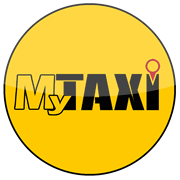
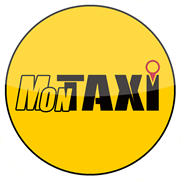
Name Change + Up to v1.2.5 + Ban System

diff --git a/index.html b/index.html
@@ -3,7 +3,7 @@
     <head>
     <meta http-equiv="Content-Type" content="text/html; charset=utf-8" />
     <meta http-equiv="CONTENT-LANGUAGE" content="French">
-    <title>My Taxi by TaxiMedia</title>
+    <title>MonTaxi by TaxiMedia</title>
     <link rel="apple-touch-icon" href="visuels/idev.favicon.png"/>
     <meta name="viewport" content="width=device-width, user-scalable=no, initial-scale=1, minimum-scale=1, maximum-scale=1"/>
     <!-- <meta name="viewport" content="width=device-width, height=device-height, user-scalable=yes, initial-scale=1"/> -->
@@ -105,6 +105,16 @@
 			{
 				$.mobile.pageContainer.pagecontainer("change", "#connect", { transition: "slide"} );
 			}
+			else {
+				$.post("https://www.mytaxiserver.com/taxioffsrv/blacklist.php", { userid: operator}, function(data) {
+					if (data.banned == 1)
+					{
+						$.mobile.pageContainer.pagecontainer("change", "#subscription", { transition: "slide"} );
+						var displayThis = '<p style="color:red;"><b>Votre compte &agrave; &eacute;t&eacute; banni pour cause d&rsquo;utilisation abusive, d&eacute;sol&eacute;.<br>Vous pouvez nous contacter pour toute r&eacute;clamation: </b></p><center><a href="mailto:info@taximedia.fr" class="ui-btn ui-btn-icon-left ui-icon-mail ui-btn-inline">Courriel</a><a href="tel:0413598022" class="ui-btn ui-btn-icon-left ui-icon-phone ui-btn-inline">T&eacute;l&eacute;phone</a></center>';
+						$("#subReturns").empty().append(displayThis);
+					}
+				}, "json");
+			}
 			if((navigator.network.connection.type == Connection.NONE) || !window.jQuery){
 				$("body").empty().append('<img src="no_network.png" width="'+screen.width+'" height="'+screen.height+'" onClick="window.location.reload()" />');
 			}
@@ -116,7 +126,7 @@
 		// GESTION DES BOUTONS MATERIEL
 		// Bouton retour
 		function onBackKeyDown() {
-			navigator.notification.alert('Veuillez ne pas quitter myTaxi pendant la recheche de taxi disponibles');
+			navigator.notification.alert('Veuillez ne pas quitter monTaxi pendant la recheche de taxi disponibles');
 		}
 		function onResume() {
 			if((navigator.network.connection.type == Connection.NONE) || !window.jQuery){
@@ -188,7 +198,7 @@
 			setTimeout(function(){
 				//navigator.notification.alert(result.name + " " + result.phoneNumber);
 				var number = result.phoneNumber;
-				var message = "Téléchargez l'app myTaxi en suivant ce lien : http://www.taximedia.fr/stores.php?app=taxioff";
+				var message = "Téléchargez l'app monTaxi en suivant ce lien : http://www.taximedia.fr/stores.php?app=taxioff";
 				var intent = ""; //leave empty for sending sms using default intent
 				var success = function () {
 					//navigator.notification.alert('Message sent successfully');
@@ -686,6 +696,16 @@
 			if($.localStorage.getItem('registeredUser') != 1)
 			{
 				$.mobile.pageContainer.pagecontainer("change", "#connect", { transition: "slide"} );
+			}
+			else {
+				$.post("https://www.mytaxiserver.com/taxioffsrv/blacklist.php", { userid: operator}, function(data) {
+					if (data.banned == 1)
+					{
+						$.mobile.pageContainer.pagecontainer("change", "#subscription", { transition: "slide"} );
+						var displayThis = '<p style="color:red;"><b>Votre compte &agrave; &eacute;t&eacute; banni pour cause d&rsquo;utilisation abusive, d&eacute;sol&eacute;.<br>Vous pouvez nous contacter pour toute r&eacute;clamation: </b></p><center><a href="mailto:info@taximedia.fr" class="ui-btn ui-btn-icon-left ui-icon-mail ui-btn-inline">Courriel</a><a href="tel:0413598022" class="ui-btn ui-btn-icon-left ui-icon-phone ui-btn-inline">T&eacute;l&eacute;phone</a></center>';
+						$("#subReturns").empty().append(displayThis);
+					}
+				}, "json");
 			}
 			locateMe();
 			$('.noAppHide').each(function () {
@@ -1484,7 +1504,7 @@
             <div class="ui-bar-b ui-corner-all ui-shadow" style="padding:1em; display:block;">
             	<center>
                 <img src="visuels/logo.png" width="60%" style="max-width:252px"/>
-                <p><b><br><br>Votre demande a &eacute;t&eacute; prise en compte, votre taxi prendra contact avec vous par t&eacute;l&eacute;phone ou sms.<br><br>Toute l&rsquo;&eacute;quipe myTaxi vous remercie.</b></p>
+                <p><b><br><br>Votre demande a &eacute;t&eacute; prise en compte, votre taxi prendra contact avec vous par t&eacute;l&eacute;phone ou sms.<br><br>Toute l&rsquo;&eacute;quipe monTaxi vous remercie.</b></p>
                 <button class="ui-btn ui-corner-all ui-shadow ui-btn-b ui-btn-icon-left ui-icon-back" onClick="goback('index.html')">Retour</button>
                 </center>
             </div>
